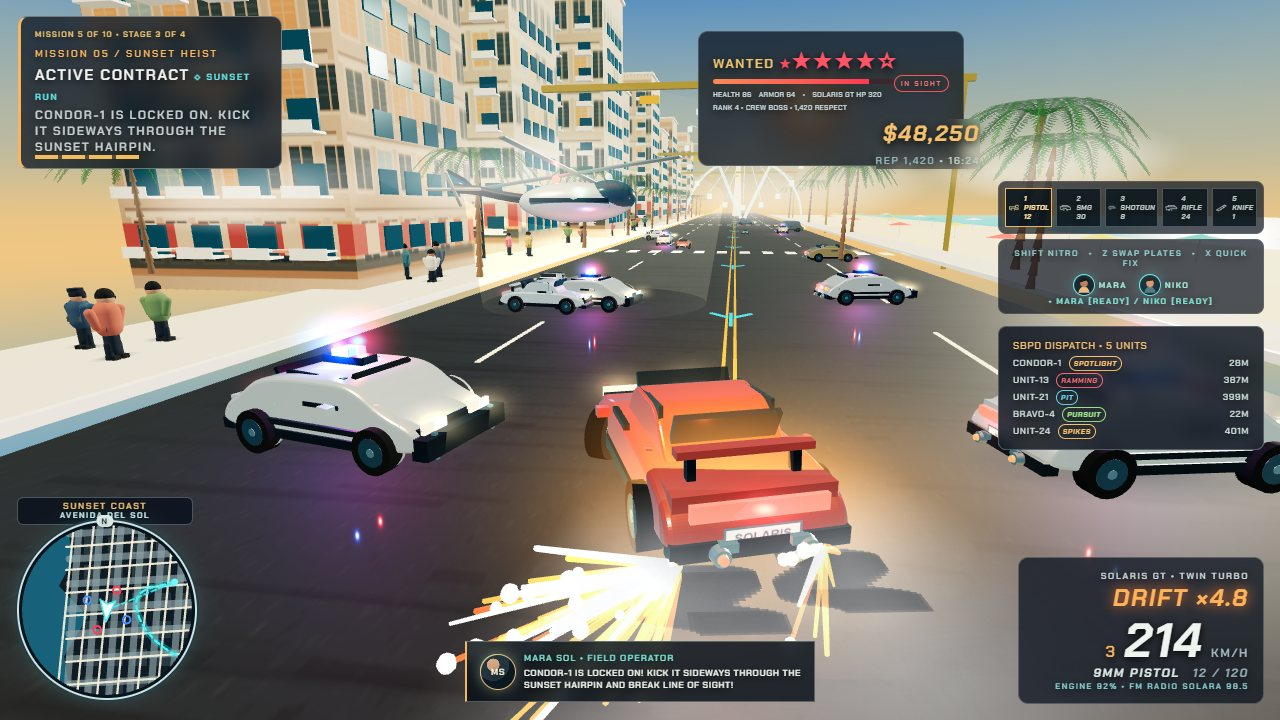
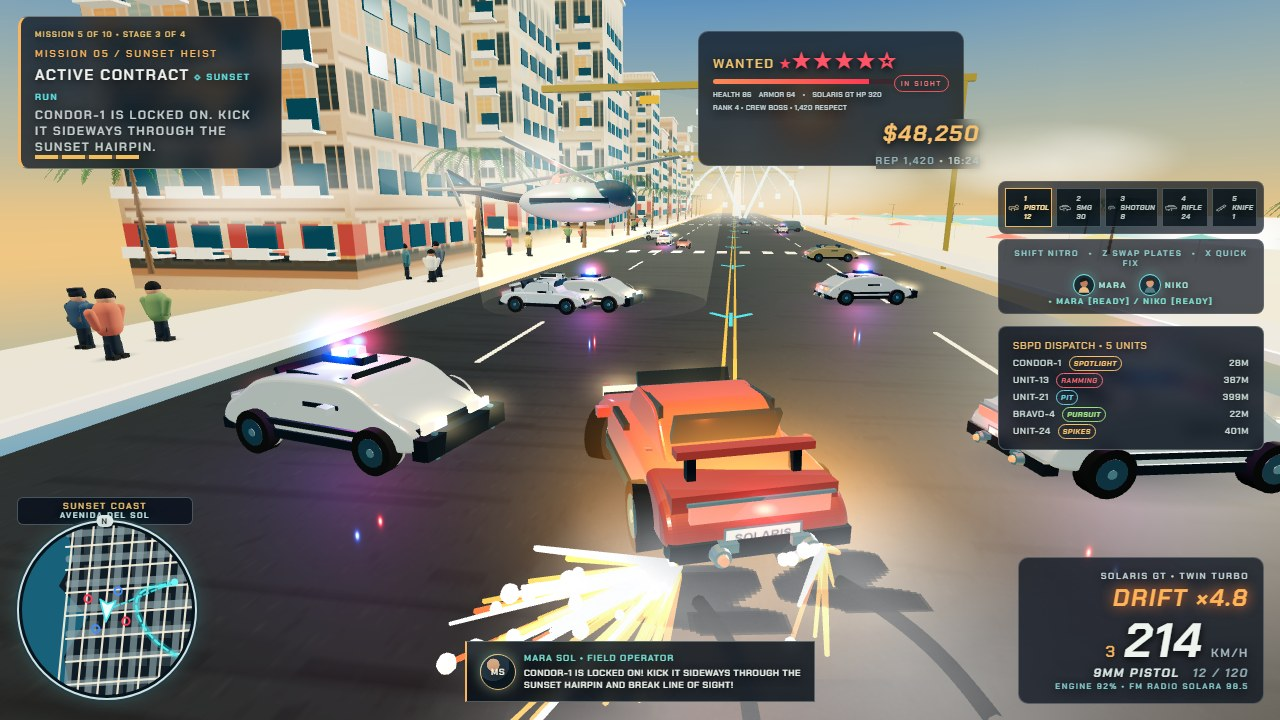
v14: final championship polish (grounded shadows, LED taillights, skid marks, downed enemy loot, shoreline wave foam)

diff --git a/game/src/shots.js b/game/src/shots.js
@@ -154,7 +154,7 @@ function addBoulevardBackdrop(game) {
     const pole = new THREE.Mesh(new THREE.CylinderGeometry(0.045, 0.06, 2.25, 6), balcony); pole.position.set(x, -3.9, z); avenue.add(pole);
   }
   for (const z of [-52, -122, -192, -262]) {
-    const beachPalm = createPalm(); beachPalm.position.set(21.5, -4.9, z); beachPalm.scale.setScalar(1.68); avenue.add(beachPalm);
+    const beachPalm = createPalm(); beachPalm.position.set(61, -4.9, z); beachPalm.scale.setScalar(0.8); avenue.add(beachPalm);
   }
   // The 65 mints of traffic read as small, bright moving cars on the distant lanes.
   const trafficPaint = [0xecebe2, 0xc76455, 0x4b8a9a, 0xe2b75b, 0x364b5f];
@@ -387,6 +387,20 @@ function addTitleCoast(game) {
     streak.rotation.y = index % 2 ? -0.16 : 0.16;
     coast.add(streak);
   }
+  const crispFoam = new THREE.MeshBasicMaterial({ color: 0xffffff, transparent: true, opacity: 0.98, toneMapped: false });
+  for (const [z, span] of [[-36, 23], [-78, 30], [-128, 25], [-185, 31], [-224, 22]]) {
+    const shore = new THREE.CatmullRomCurve3([
+      new THREE.Vector3(72, -11.2, z - span), new THREE.Vector3(75, -11.19, z - span * 0.58),
+      new THREE.Vector3(77, -11.18, z), new THREE.Vector3(75, -11.19, z + span * 0.58),
+      new THREE.Vector3(72, -11.2, z + span),
+    ]);
+    coast.add(new THREE.Mesh(new THREE.TubeGeometry(shore, 32, 0.16, 7, false), crispFoam));
+  }
+  // Small bright rings make the foam lap visibly around the pier supports.
+  for (const [x, z] of [[72, -99], [86, -99], [72, -89], [86, -89]]) {
+    const loop = new THREE.Mesh(new THREE.TorusGeometry(0.72, 0.12, 6, 24), crispFoam);
+    loop.rotation.x = Math.PI / 2; loop.position.set(x, -11.18, z); coast.add(loop);
+  }
   const wheel = game.city.ferrisWheel;
   game.scene.attach(wheel);
   coast.add(wheel);
@@ -603,7 +617,11 @@ function stageDrift(game) {
   game.sky.dome.material.uniforms.zenithColor.value.set('#2f8ed4');
   game.sky.dome.material.uniforms.middleColor.value.set('#85cef5');
   game.sky.dome.material.uniforms.horizonColor.value.set('#ffe6b8');
-  for(let i=0;i<5;i++)for(const sign of [-1,1]){const palm=createPalm();palm.position.copy(car.position).addScaledVector(forward,(i-2)*17).addScaledVector(side,sign*22);palm.scale.setScalar(.95);game.scene.add(palm);}
+  for(let i=0;i<5;i++)for(const sign of [-1,1]){const palm=createPalm();palm.position.copy(car.position).addScaledVector(forward,(i-2)*17).addScaledVector(side,sign<0?-22:46);palm.scale.setScalar(sign<0?.95:.62);game.scene.add(palm);}
+  // Three beachside palms frame the open right sky while staying beyond the curb.
+  for (const [distance, lateral, scale] of [[-11, 54, 0.78], [8, 54, 0.82], [26, 54, 0.76]]) {
+    const palm = createPalm(); palm.position.copy(car.position).addScaledVector(forward, distance).addScaledVector(side, lateral); palm.position.y = -1.1; palm.scale.setScalar(scale); game.scene.add(palm);
+  }
   pedestrians.list.forEach((person) => { person.visible = false; });
   pedestrians.list.slice(0, 20).forEach((person, index) => {
     const cluster = Math.floor(index / 3);
@@ -632,6 +650,17 @@ function stageDrift(game) {
   for (let i = 0; i < 26; i++) for (const wheelSide of [-1, 1]) {
     const t = i / 26; const mark = new THREE.Mesh(new THREE.PlaneGeometry(0.28, 0.85), new THREE.MeshBasicMaterial({ color: 0x080b0d, transparent: true, opacity: 0.72, depthWrite: false, polygonOffset: true, polygonOffsetFactor: -2 }));
     mark.rotation.set(-Math.PI / 2, 0, -state.yaw); mark.position.copy(rear).addScaledVector(forward, -t * 0.95).addScaledVector(side, wheelSide * 0.72 + Math.sin(t * 8) * 0.26); mark.position.y = 0.06; game.scene.add(mark);
+  }
+  // Two continuous rubber ribbons sharpen the curved tire path behind the rear wheels.
+  for (const wheelSide of [-1, 1]) {
+    const points = [];
+    for (let index = 0; index <= 12; index++) {
+      const t = index / 12;
+      points.push(rear.clone().addScaledVector(forward, -0.45 - t * 1.9).addScaledVector(side, wheelSide * (0.76 + t * 0.2) + Math.sin(t * Math.PI) * 0.16).setY(0.035));
+    }
+    const curve = new THREE.CatmullRomCurve3(points);
+    const ribbon = new THREE.Mesh(new THREE.TubeGeometry(curve, 36, 0.07, 7, false), new THREE.MeshBasicMaterial({ color: 0x111314, transparent: true, opacity: 0.88, depthWrite: false, polygonOffset: true, polygonOffsetFactor: -3 }));
+    game.scene.add(ribbon);
   }
   // Each burst originates at a rear contact patch and fans backward/outward in car space.
   // Real drift loads the outside rear tire much harder. Bias the spray toward
@@ -851,7 +880,7 @@ function stageCombat(game) {
   world.shotRadio = 'NIKO VALE • DRIVER — Mara, I have four ahead. I’m moving through the crossfire.';
   car.position.set(238, 0.12, 157); car.rotation.y = Math.PI * 0.78;
   if (drive.state.active) drive.enterExit();
-  player.position.set(237, 0, 159); player.rotation.y = -0.12; player.visible = true;
+  player.position.set(237, 0, 159); player.rotation.y = 0.59; player.visible = true;
   combat.wheel = true; combat.weapon = 4; combat.ammo = 24; combat.ammoByWeapon[3] = 24;
   combat.reserve[3] = 120;
   const healthBars = [];
@@ -869,7 +898,18 @@ function stageCombat(game) {
   game.healthBars = healthBars;
   for (const enemy of combat.enemies.slice(6)) enemy.visible = false;
   player.traverse((part) => { if (part.isMesh && part.material?.color && part.material.color.getHex() === 0x294c50) { part.material.color.setHex(0xc73340); part.material.emissive?.setHex(0x28090e); } });
+  if (player.userData.limbs?.length >= 2) { player.userData.limbs[0].rotation.z = 0.94; player.userData.limbs[1].rotation.z = -1.12; }
+  player.userData.weapon.scale.setScalar(1.28);
   const playerStripe = new THREE.Mesh(new THREE.BoxGeometry(0.12, 0.52, 0.44), new THREE.MeshBasicMaterial({ color: 0xf3ead5 })); playerStripe.position.set(0.05, 1.19, 0.225); player.add(playerStripe);
+  const downed = combat.enemies[6];
+  if (downed) {
+    downed.visible = true; downed.userData.alive = false; downed.userData.health = 0;
+    downed.position.set(251.5, 0.04, 151.2); downed.rotation.set(0, Math.PI + 0.35, 1.28); downed.scale.set(1.06, 1.06, 1.06);
+    const lootCanvas = document.createElement('canvas'); lootCanvas.width = 320; lootCanvas.height = 112;
+    const lootContext = lootCanvas.getContext('2d'); lootContext.font = '900 68px Chakra,Arial'; lootContext.textAlign = 'center'; lootContext.textBaseline = 'middle'; lootContext.fillStyle = '#baff9b'; lootContext.shadowColor = '#35ff77'; lootContext.shadowBlur = 24; lootContext.fillText('+$250', 160, 54);
+    const loot = new THREE.Sprite(new THREE.SpriteMaterial({ map: new THREE.CanvasTexture(lootCanvas), transparent: true, depthWrite: false, toneMapped: false }));
+    loot.position.set(253.7, 1.15, 151.7); loot.scale.set(3.1, 1.08, 1); game.scene.add(loot);
+  }
   const hitCanvas=document.createElement('canvas');hitCanvas.width=320;hitCanvas.height=100;const hitCtx=hitCanvas.getContext('2d');hitCtx.font='900 54px Chakra,Arial';hitCtx.textAlign='center';hitCtx.fillStyle='#ffe193';hitCtx.shadowColor='#ff9b32';hitCtx.shadowBlur=18;hitCtx.fillText('HEAD 85',160,64);
   const hitSprite=new THREE.Sprite(new THREE.SpriteMaterial({map:new THREE.CanvasTexture(hitCanvas),transparent:true,depthWrite:false,toneMapped:false}));hitSprite.position.set(260.2,3.25,145);hitSprite.scale.set(3.3,1.05,1);game.scene.add(hitSprite);
   for (const [label, x, z, color] of [['42!', 264, 3.7, '#ff8b55'], ['38', 257.2, 4.05, '#ffe17b']]) {
@@ -886,14 +926,13 @@ function stageCombat(game) {
   game.missions.cash = 14800; game.missions.respect = 420; game.police.wanted = 3;
   game.police.heat = 58;
   // Muzzle starburst, barrel light and tracers cross the downtown avenue.
-  const muzzle = new THREE.Group(); player.userData.weapon.add(muzzle); muzzle.position.set(0.94, 0, 0);
+  const muzzle = new THREE.Group(); player.userData.weapon.add(muzzle); muzzle.position.set(1.2, 0, 0);
   for (let i = 0; i < 6; i++) { const ray = new THREE.Mesh(new THREE.ConeGeometry(i % 2 ? 0.07 : 0.11, i % 2 ? 0.34 : 0.22, 4), new THREE.MeshBasicMaterial({ color: i % 2 ? 0xffa42e : 0xfff4c3, blending: THREE.AdditiveBlending, depthWrite: false })); ray.rotation.z = -Math.PI / 2 + (i - 2.5) * 0.16; ray.position.x = 0.1; muzzle.add(ray); }
   const muzzleCore = new THREE.Mesh(new THREE.SphereGeometry(0.075, 10, 8), new THREE.MeshBasicMaterial({ color: 0xfff9e2, blending: THREE.AdditiveBlending, toneMapped: false })); muzzle.add(muzzleCore);
   const muzzleLight = new THREE.PointLight(0xffc45f, 11, 6); muzzle.add(muzzleLight);
   player.updateMatrixWorld(true);
-  const barrelTip = player.localToWorld(new THREE.Vector3(0.34 + 0.94, 1.04, 0.04));
-  const reticleRay = new THREE.Vector3(0.04, 0.1, 0.5).unproject(game.camera).sub(barrelTip).normalize();
-  addTracer(game.scene, barrelTip.toArray(), barrelTip.clone().addScaledVector(reticleRay, 28).toArray(), 0xffc66e, 0.025);
+  const barrelTip = player.localToWorld(new THREE.Vector3(0.34 + 1.2 * 1.28, 1.04, 0.04));
+  addTracer(game.scene, barrelTip.toArray(), [260, 2.25, 145], 0xffc66e, 0.055);
   const impact = new THREE.PointLight(0xff832d, 18, 9); impact.position.set(261, 2.6, 153); game.scene.add(impact);
   const impactSpark = new THREE.Mesh(new THREE.IcosahedronGeometry(0.5, 1), new THREE.MeshBasicMaterial({ color: 0xffb052, wireframe: true })); impactSpark.position.copy(impact.position); game.scene.add(impactSpark);
   // A layered fireball gives the blockade impact a readable focal point at screenshot scale.

diff --git a/game/src/models/vehicles.js b/game/src/models/vehicles.js
@@ -23,8 +23,8 @@ function addContactShadow(root, width = 4.8, depth = 2.5) {
     g.addColorStop(0,'rgba(10,13,17,.72)'); g.addColorStop(.42,'rgba(10,13,17,.38)'); g.addColorStop(1,'rgba(10,13,17,0)');
     ctx.fillStyle=g;ctx.fillRect(0,0,128,128); contactMap=new THREE.CanvasTexture(canvas);
   }
-  const shadow = new THREE.Mesh(new THREE.PlaneGeometry(width, depth), new THREE.MeshBasicMaterial({ map:contactMap, transparent:true, opacity:.62, depthWrite:false, toneMapped:false }));
-  shadow.rotation.x=-Math.PI/2; shadow.position.y=.045; shadow.renderOrder=1; root.add(shadow); return shadow;
+  const shadow = new THREE.Mesh(new THREE.PlaneGeometry(width, depth), new THREE.MeshBasicMaterial({ map:contactMap, transparent:true, opacity:.72, depthWrite:false, toneMapped:false }));
+  shadow.rotation.x=-Math.PI/2; shadow.position.y=.03; shadow.renderOrder=1; root.add(shadow); return shadow;
 }
 function glowMap(color) {
   if (glowMaps.has(color)) return glowMaps.get(color);
@@ -164,6 +164,8 @@ export function createVehicle(type = 0, paint = null) {
   }
   const tailBar = box(root, tailMaterial, [-2.19, 0.83, 0], [0.075, 0.19, width * 0.79]);
   root.userData.rearLights.push(tailBar);
+  const tailTrim = box(root, standard(0xc3c8c6, { metalness: 0.88, roughness: 0.2, emissive: 0x352021, emissiveIntensity: 0.32 }), [-2.235, 0.955, 0], [0.035, 0.035, width * 0.83]);
+  tailTrim.userData.lightTrim = true;
   const plate = new THREE.Mesh(new THREE.PlaneGeometry(.86,.27),plateMat); plate.rotation.y=-Math.PI/2;plate.position.set(-2.28,.55,0);root.add(plate);
   for(const side of [-1,1]) {
     const exhaust=new THREE.Mesh(new THREE.CylinderGeometry(.095,.12,.2,16),materials.chrome);exhaust.rotation.z=Math.PI/2;exhaust.position.set(-2.32,.43,side*.48);root.add(exhaust);
@@ -202,9 +204,9 @@ export function createVehicle(type = 0, paint = null) {
     liveryContext.fillStyle = '#eeeae0'; liveryContext.fillRect(0, 0, livery.width, livery.height);
     liveryContext.fillStyle = '#172431'; liveryContext.fillRect(0, 0, livery.width, 36); liveryContext.fillRect(0, 188, livery.width, 36);
     liveryContext.fillStyle = '#c7a65d'; liveryContext.fillRect(0, 36, livery.width, 8); liveryContext.fillRect(0, 180, livery.width, 8);
-    liveryContext.fillStyle = '#14212d'; liveryContext.font = '900 87px Arial, sans-serif'; liveryContext.textAlign = 'center'; liveryContext.textBaseline = 'middle';
-    liveryContext.fillText('POLICE', 384, 104);
-    liveryContext.font = '700 38px Arial, sans-serif'; liveryContext.fillText('SBPD  •  EMERGENCY 911', 384, 154);
+    liveryContext.fillStyle = '#14212d'; liveryContext.font = '900 98px Arial, sans-serif'; liveryContext.textAlign = 'center'; liveryContext.textBaseline = 'middle';
+    liveryContext.fillText('SBPD', 384, 101);
+    liveryContext.font = '700 34px Arial, sans-serif'; liveryContext.fillText('POLICE  •  EMERGENCY 911', 384, 163);
     const liveryMap = new THREE.CanvasTexture(livery); liveryMap.colorSpace = THREE.SRGBColorSpace;
     const liveryMaterial = new THREE.MeshBasicMaterial({ map: liveryMap, toneMapped: false, side: THREE.DoubleSide });
     for (const side of [-1, 1]) {

diff --git a/game/src/ui/menu.js b/game/src/ui/menu.js
@@ -17,7 +17,7 @@ export function showPanel(type, game) {
       <section class="title-panel">
         <div class="title-crest" aria-hidden="true">☀</div>
         <div class="eyebrow">SUNSET COAST • CHAPTER 05</div>
-        <h1 class="title-logo" aria-label="SOLARIS BAY"><svg viewBox="0 0 620 184" role="img" aria-hidden="true"><defs><linearGradient id="chrome-sunset" x1="0" y1="0" x2="0" y2="1"><stop offset="0" stop-color="#fff"/><stop offset=".22" stop-color="#b9f7ff"/><stop offset=".46" stop-color="#fff4cb"/><stop offset=".68" stop-color="#ffb14e"/><stop offset="1" stop-color="#e74e45"/></linearGradient><linearGradient id="sunset-disc" x1="0" y1="0" x2="0" y2="1"><stop stop-color="#ffd14e"/><stop offset="1" stop-color="#fb654b"/></linearGradient></defs><circle cx="482" cy="72" r="55" fill="url(#sunset-disc)"/><path d="M428 72h108M436 88h92M448 104h68M465 120h34" stroke="#153048" stroke-width="8"/><text x="12" y="95" fill="url(#chrome-sunset)" stroke="#102537" stroke-width="5" paint-order="stroke" font-family="Arial,sans-serif" font-size="77" font-weight="900" font-style="italic" letter-spacing="-5">SOLARIS</text><text x="250" y="166" fill="url(#chrome-sunset)" stroke="#102537" stroke-width="5" paint-order="stroke" font-family="Arial,sans-serif" font-size="68" font-weight="900" font-style="italic" letter-spacing="8">BAY</text></svg></h1>
+        <h1 class="title-logo" aria-label="SOLARIS BAY"><svg viewBox="0 0 620 184" role="img" aria-hidden="true"><defs><linearGradient id="chrome-sunset" x1="0" y1="0" x2="0" y2="1"><stop offset="0" stop-color="#fff"/><stop offset=".22" stop-color="#b9f7ff"/><stop offset=".46" stop-color="#fff4cb"/><stop offset=".68" stop-color="#ffb14e"/><stop offset="1" stop-color="#e74e45"/></linearGradient><linearGradient id="sunset-disc" x1="0" y1="0" x2="0" y2="1"><stop stop-color="#ffd14e"/><stop offset="1" stop-color="#fb654b"/></linearGradient></defs><circle cx="482" cy="72" r="55" fill="url(#sunset-disc)" stroke="#ffe9aa" stroke-width="3"/><path d="M447 34a55 55 0 0 1 69 4" fill="none" stroke="#fff7d5" stroke-width="3" opacity=".92"/><path d="M428 72h108M436 88h92M448 104h68M465 120h34" stroke="#153048" stroke-width="8"/><text x="12" y="95" fill="url(#chrome-sunset)" stroke="#102537" stroke-width="5" paint-order="stroke" font-family="Arial,sans-serif" font-size="77" font-weight="900" font-style="italic" letter-spacing="-5">SOLARIS</text><text x="250" y="166" fill="url(#chrome-sunset)" stroke="#102537" stroke-width="5" paint-order="stroke" font-family="Arial,sans-serif" font-size="68" font-weight="900" font-style="italic" letter-spacing="8">BAY</text></svg></h1>
         <div class="title-rule"></div>
         <p>A LIVING COASTAL CRIME STORY</p>
         <div class="title-actions"><button id="start">NEW GAME <b>↗</b></button><button id="continue" class="selected">CONTINUE <b>↗</b></button><button id="load">LOAD GAME <b>↗</b></button><button id="garage">PAY N TUNE GARAGE <b>↗</b></button><button id="settings">SETTINGS <b>⚙</b></button><button id="controls">CONTROLS <b>⌘</b></button></div>

diff --git a/game/src/models/characters.js b/game/src/models/characters.js
@@ -10,7 +10,7 @@ export function createCharacter(role = 'protagonist', seed = 1) {
   const skin = fabric(0xb77f62); const jacket = fabric(palette); const pants = fabric(role === 'syndicate' ? 0x14191f : 0x202a34); const boot = fabric(0x101316);
   const group = new THREE.Group(); group.userData = { role, phase: seed * 0.6, limbs: [] };
   const shadowCanvas=document.createElement('canvas');shadowCanvas.width=shadowCanvas.height=64;const sctx=shadowCanvas.getContext('2d');const sg=sctx.createRadialGradient(32,32,3,32,32,31);sg.addColorStop(0,'rgba(9,12,15,.58)');sg.addColorStop(1,'rgba(9,12,15,0)');sctx.fillStyle=sg;sctx.fillRect(0,0,64,64);
-  const shadow=new THREE.Mesh(new THREE.PlaneGeometry(1.25,.8),new THREE.MeshBasicMaterial({map:new THREE.CanvasTexture(shadowCanvas),transparent:true,opacity:.62,depthWrite:false}));shadow.rotation.x=-Math.PI/2;shadow.position.y=.045;group.add(shadow);
+  const shadow=new THREE.Mesh(new THREE.PlaneGeometry(1.25,.8),new THREE.MeshBasicMaterial({map:new THREE.CanvasTexture(shadowCanvas),transparent:true,opacity:.62,depthWrite:false}));shadow.rotation.x=-Math.PI/2;shadow.position.y=.03;group.add(shadow);
   capsule(group, pants, [0, 0.5, 0], 0.2, 0.4); capsule(group, jacket, [0, 1.16, 0], 0.34, 0.38);
   const head = new THREE.Mesh(new THREE.SphereGeometry(0.22, 14, 11), skin); head.position.set(0.06, 1.72, 0); group.add(head);
   const hair = new THREE.Mesh(new THREE.SphereGeometry(0.235, 12, 8, 0, Math.PI * 2, 0, Math.PI * 0.55), fabric(role === 'officer' ? 0x19222b : 0x17191e)); hair.position.set(0.05, 1.8, 0); group.add(hair);
